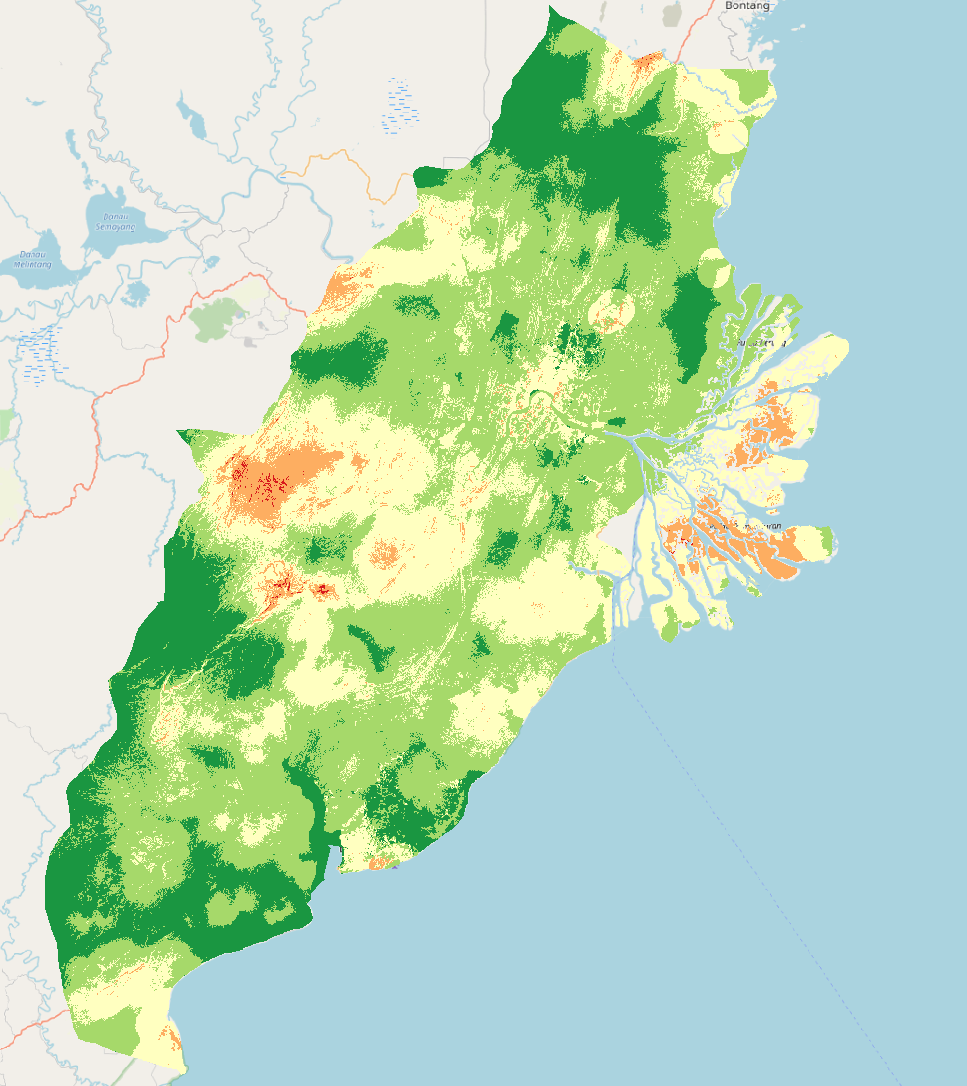
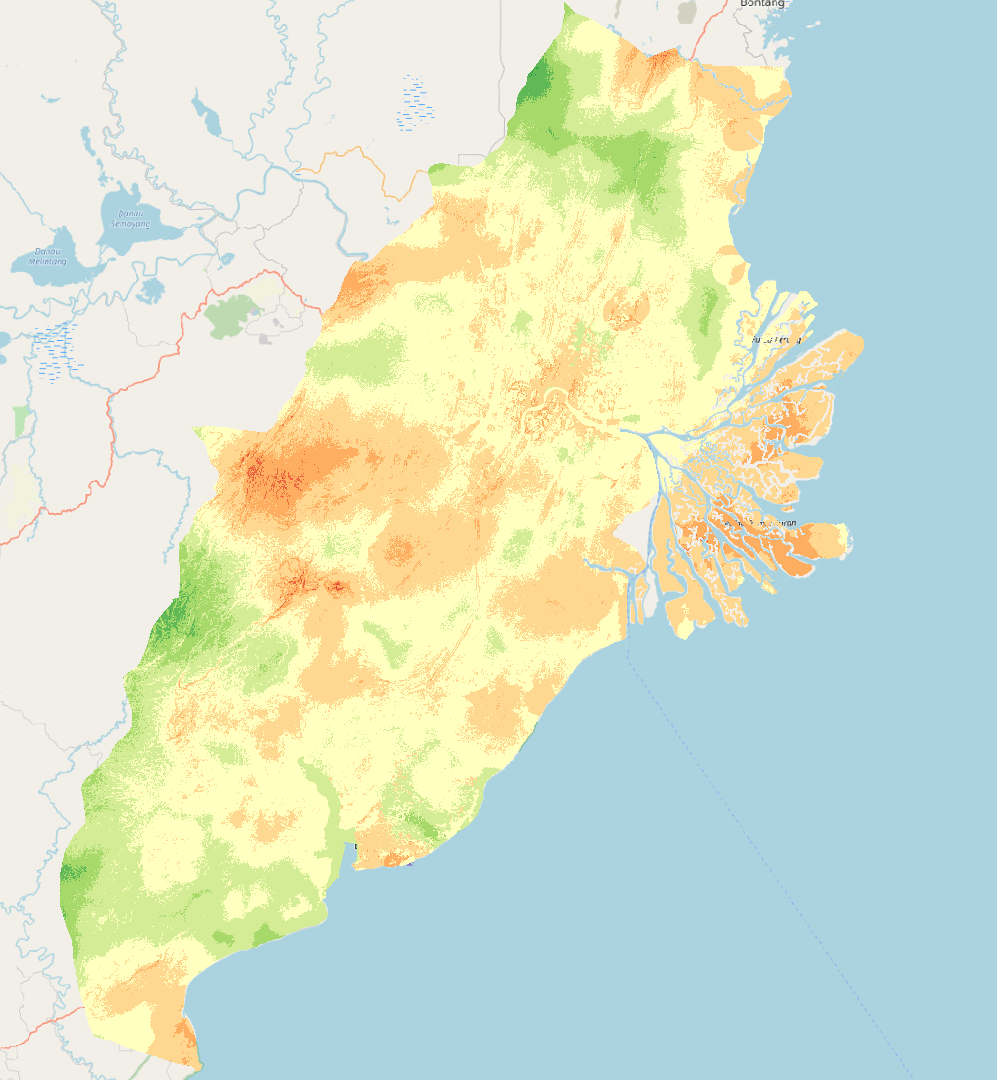
update AHP pics

diff --git a/_site/t2-dataprep-ahp.html b/_site/t2-dataprep-ahp.html
@@ -56,7 +56,7 @@ pre > code.sourceCode > span > a:first-child::before { text-decoration: underlin
 }
 code span.al { color: #ad0000; } /* Alert */
 code span.an { color: #5e5e5e; } /* Annotation */
-code span.at { color: #20794d; } /* Attribute */
+code span.at { } /* Attribute */
 code span.bn { color: #ad0000; } /* BaseN */
 code span.bu { } /* BuiltIn */
 code span.cf { color: #007ba5; } /* ControlFlow */
@@ -77,13 +77,14 @@ code span.kw { color: #007ba5; } /* Keyword */
 code span.op { color: #5e5e5e; } /* Operator */
 code span.ot { color: #007ba5; } /* Other */
 code span.pp { color: #ad0000; } /* Preprocessor */
-code span.sc { color: #20794d; } /* SpecialChar */
+code span.sc { color: #5e5e5e; } /* SpecialChar */
 code span.ss { color: #20794d; } /* SpecialString */
 code span.st { color: #20794d; } /* String */
 code span.va { color: #111111; } /* Variable */
 code span.vs { color: #20794d; } /* VerbatimString */
 code span.wa { color: #5e5e5e; font-style: italic; } /* Warning */
 </style>
+
 
   <!--radix_placeholder_meta_tags-->
   <title>Test Website: Data catergorisation and creation for AHP analysis.</title>
@@ -1862,7 +1863,10 @@ code span.wa { color: #5e5e5e; font-style: italic; } /* Warning */
 
       // hoverable references
       $('span.citation[data-cites]').each(function() {
-        var refHtml = $('#ref-' + $(this).attr('data-cites')).html();
+        var refs = $(this).attr('data-cites').split(" ");
+        var refHtml = refs.map(function(ref) {
+          return "<p>" + $('#ref-' + ref).html() + "</p>";
+        }).join("\n");
         window.tippy(this, {
           allowHTML: true,
           content: refHtml,
@@ -2112,14 +2116,14 @@ Data Preparation
 </div>
 <ul>
 <li>Please use the values here:</li>
-<li>0.199 * “<a href="mailto:factor_slope@1" class="email">factor_slope@1</a>”</li>
-<li>+ 0.190 * “<a href="mailto:factor_river@1" class="email">factor_river@1</a>”</li>
-<li>+ 0.134 * “<a href="mailto:factor_FF@1" class="email">factor_FF@1</a>”</li>
-<li>+ 0.130 * “<a href="mailto:factor_road@1" class="email">factor_road@1</a>”</li>
-<li>+ 0.145 * “<a href="mailto:factor_forest@1" class="email">factor_forest@1</a>”</li>
-<li>+ 0.105 * “<a href="mailto:factor_ub@1" class="email">factor_ub@1</a>”</li>
-<li>+ 0.063 * “<a href="mailto:factor_airport@1" class="email">factor_airport@1</a>”</li>
-<li>+ 0.04 * “<a href="mailto:factor_seaport@1" class="email">factor_seaport@1</a>”</li>
+<li>0.205 * “<a href="mailto:factor_slope@1" class="email">factor_slope@1</a>”</li>
+<li>+ 0.204 * “<a href="mailto:factor_river@1" class="email">factor_river@1</a>”</li>
+<li>+ 0.128 * “<a href="mailto:factor_ub@1" class="email">factor_ub@1</a>”</li>
+<li>+ 0.121 * “<a href="mailto:factor_forest@1" class="email">factor_forest@1</a>”</li>
+<li>+ 0.124 * “<a href="mailto:factor_FF@1" class="email">factor_FF@1</a>”</li>
+<li>+ 0.113 * “<a href="mailto:factor_road@1" class="email">factor_road@1</a>”</li>
+<li>+ 0.067 * “<a href="mailto:factor_airport@1" class="email">factor_airport@1</a>”</li>
+<li>+ 0.038 * “<a href="mailto:factor_seaport@1" class="email">factor_seaport@1</a>”</li>
 </ul>
 <p>For the Reference layer, tick the box for the DEM layer and click OK.</p>
 <p>Click on Run. There would be a new temporary layer called ‘Output’. Save it as a geopackage and name it ‘AHP’</p>
@@ -2137,15 +2141,14 @@ Data Preparation
 <p>Notice that a new temporary layer would be created called Reclassification table.</p>
 <p>Save the temporary layer as a geopackage and name it AHP_reclass</p>
 <p>Now, go into properties of AHP_reclass and into Symbology.</p>
-<p>Change the render type to singlenband pseudocolour. Since the range of the AHP_reclass layer only goes from 3 to 8, we will only need to have 6 classes</p>
-<p>Once you have 6 classes, change the value of these 6 classes from 3 to 8.</p>
-<p>Click on the colour ramp and change it to spectral. Your window should look like this</p>
+<p>Change the render type to Palette/Unique Colours. Click on Classify and change the colour ramp to RedtoGreen</p>
+<p>Your window should look like this</p>
 <div class="layout-chunk" data-layout="l-body">
-<p><img src="img/AHP3.png" width="813" /></p>
+<p><img src="img/AHP3.png" width="814" /></p>
 </div>
 <p>Click on Apply and OK. Your new layer would look like this</p>
 <div class="layout-chunk" data-layout="l-body">
-<p><img src="img/AHP4.png" width="484" /></p>
+<p><img src="img/AHP4.png" width="498" /></p>
 </div>
 <div class="sourceCode" id="cb1"><pre class="sourceCode r distill-force-highlighting-css"><code class="sourceCode r"></code></pre></div>
 <!--radix_placeholder_article_footer-->
